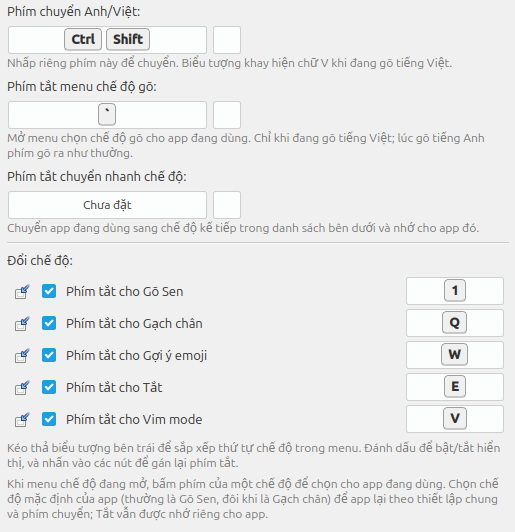
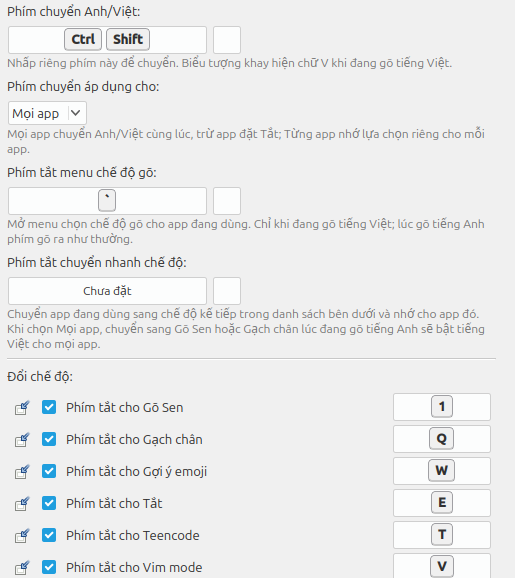
docs(guide): update switching, emoji and mode pages for 1.13.0-1
Assisted-by: AI

Changed region(s): [[0.0, 0.0, 0.9631, 1.0], [0.435, 0.0301, 0.466, 0.0602]]

diff --git a/src/data/site.ts b/src/data/site.ts
@@ -2156,12 +2156,12 @@ export const GUIDE = [
       {
         href: '/huong-dan/che-do-go/',
         label: 'Chọn chế độ gõ',
-        summary: 'Gõ Sen hay Gạch chân, chế độ riêng cho từng app.',
+        summary: 'Gõ Sen hay Gạch chân, chế độ riêng cho từng app, Teencode.',
       },
       {
         href: '/huong-dan/go-emoji/',
         label: 'Gõ emoji',
-        summary: 'Gõ xong một từ, bấm Tab để chọn emoji gợi ý cạnh con trỏ.',
+        summary: 'Gõ hết câu rồi bấm số để chọn emoji gợi ý; chia sẻ từ gợi ý.',
       },
     ],
   },
